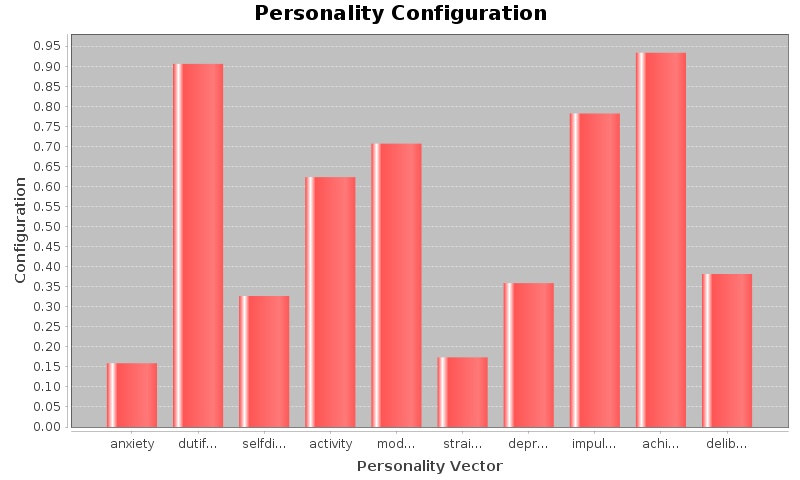
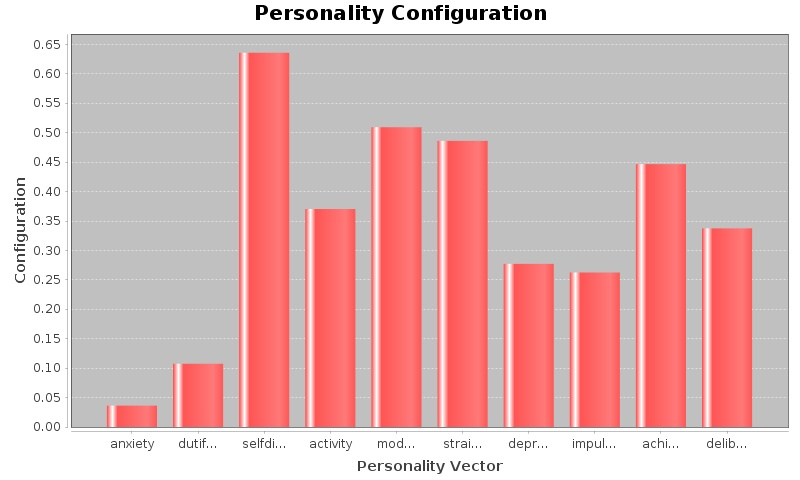
Some small changes

diff --git a/PersLogicTest/AggregationTest/src/Main.java b/PersLogicTest/AggregationTest/src/Main.java
@@ -21,6 +21,8 @@ public class Main
 {
     public static void main(String[] args)
     {
+        FuzzyLite.setDebug(true);
+
         Engine engine = new Engine();
         engine.setName("simple-dimmer");
 
@@ -31,7 +33,7 @@ public class Main
 
         // Output membership distributions
         Triangle disfavored  = new Triangle("disfavored", -0.5, 0.0, 0.5);
-        Triangle favored     = new Triangle("favored", 0.5, 1.0, 1.5);
+        Triangle favored     = new Triangle("favored",     0.5, 1.0, 1.5);
 
         Map<String, InputVariable> inputVariables   = new HashMap<String, InputVariable>();
         Map<String, OutputVariable> outputVariables = new HashMap<String, OutputVariable>();
@@ -101,7 +103,7 @@ public class Main
             }
         }
 
-        inputVariables.get("achievementstriving").setInputValue(1.0);
+        /*inputVariables.get("achievementstriving").setInputValue(1.0);
         inputVariables.get("selfdiscipline").setInputValue(1.0);
         inputVariables.get("deliberation").setInputValue(1.0);
         inputVariables.get("impulsiveness").setInputValue(1.0);
@@ -110,7 +112,7 @@ public class Main
         inputVariables.get("straightforwardness").setInputValue(1.0);
         inputVariables.get("dutifulness").setInputValue(1.0);
         inputVariables.get("modesty").setInputValue(0.0);
-        inputVariables.get("depression").setInputValue(0.0);
+        inputVariables.get("depression").setInputValue(0.0);*/
 
         String rules[] = {
                 /*
@@ -205,11 +207,11 @@ public class Main
         };
 
         // Construct rules
-        Rule r[] = new Rule[rules.length];
+        OwaRule r[] = new OwaRule[rules.length];
         {
             int i = 0;
             for (String rule : rules) {
-                r[i++] = Rule.parse(rule, engine);
+                r[i++] = OwaRule.parse(rule, engine, 0.4);
             }
         }
 
@@ -234,7 +236,7 @@ public class Main
             throw new RuntimeException("Engine not ready. " + "The following errors were encountered:\n" + status.toString());
         }
 
-        for (int i = 0; i < 10; ++i)
+        for (int i = 0; i < 1; ++i)
         {
             /*double rho = i * (1.0 / 50.0);
             for (OwaRule rule : r) {
